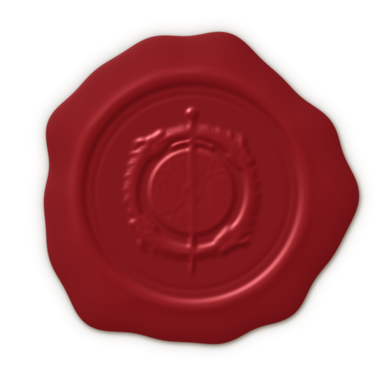
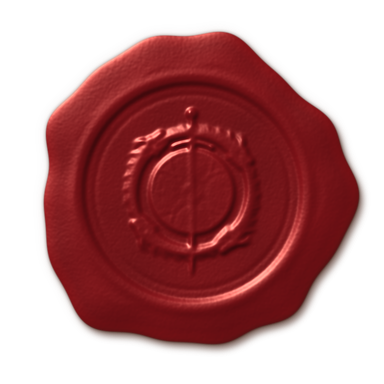
The wax seals: depth and relief restored (the larger render had halved it), seated on the sheet by grain, shared light and a short cast shadow

diff --git a/config/PrismaUI/views/AdventurersGuild/counter.html b/config/PrismaUI/views/AdventurersGuild/counter.html
@@ -359,11 +359,9 @@
   /* something bought at the counter that is running out (a Guild Augment): in green ink, with the hours it has left */
   .chips span.timed { color: #2f4a1c; border-color: rgba(47, 74, 28, 0.75); background: rgba(70, 104, 40, 0.14); }
   .cardstats .stat { border-left-color: rgba(52, 32, 12, 0.35); }
-  /* The wax: larger than it was (author). It is pressed INTO the sheet, so the page gives it no shadow of its own: the
-     image carries the dark line where wax meets paper and the oil it has bled (tools/make_seal.py). An offset shadow
-     and a glow, tried first, made it float over the card (author, 2026-10-09). Only its tone is deepened here, for
-     the darker sheet. */
-  .seal-wax { width: 136px; height: 136px; right: 14px; top: 6px; filter: brightness(0.88) contrast(1.14) saturate(0.95); }
+  /* The wax: larger than it was (author). The page adds NOTHING to it - no shadow, no glow, no change of tone: all of
+     how it sits on the sheet is in the image (tools/make_seal.py, "seating it on the sheet"), made for this paper. */
+  .seal-wax { width: 136px; height: 136px; right: 14px; top: 6px; }
 </style>
 </head>
 <body>
